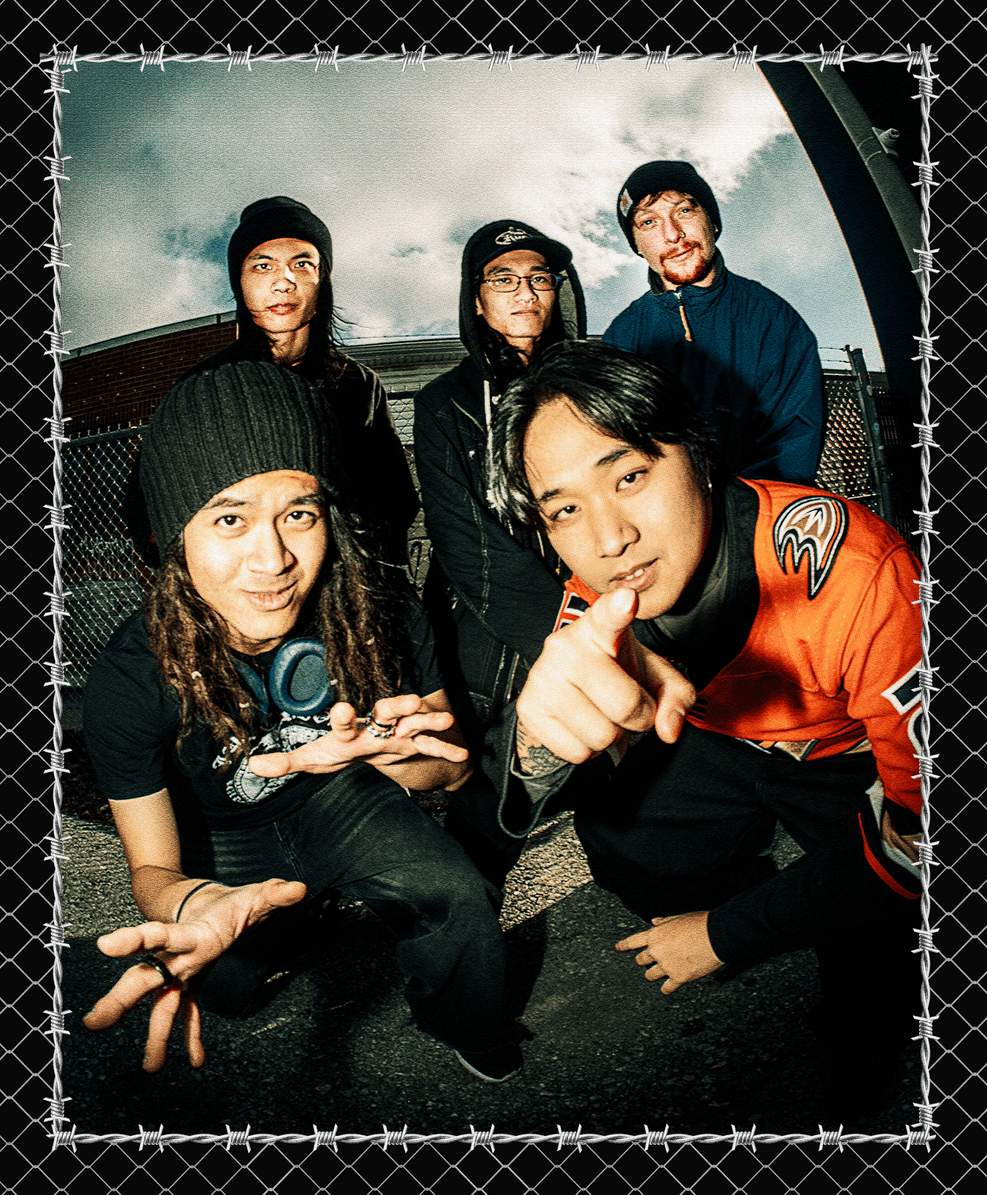
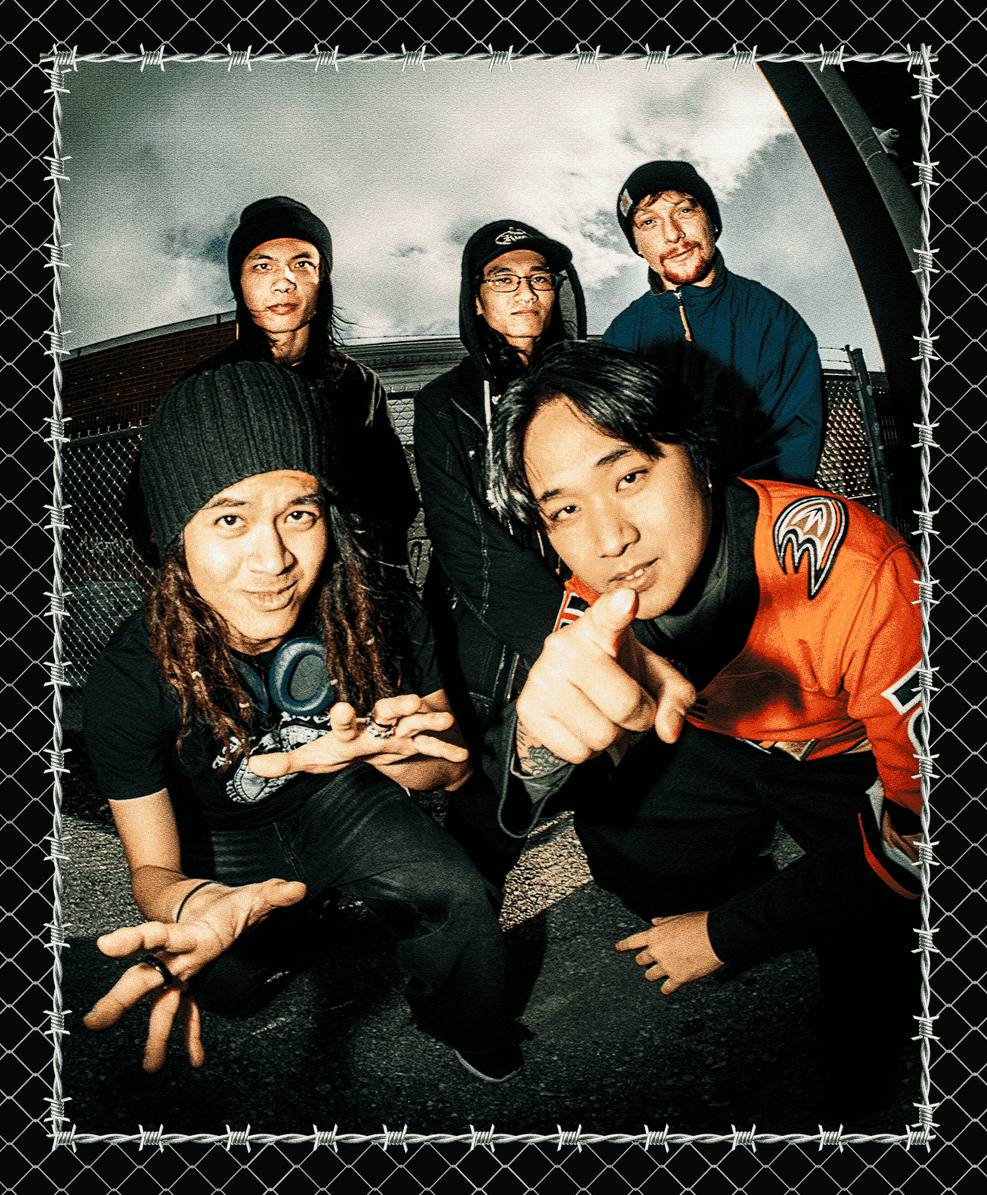
Band assets and seed data updates; fix EXIF orientation in asset optimizer
- Refresh hero/logo images for 1818, 7uppercuts, imnotsure, volcate
- Add logos for 7uppercuts and imnotsure
- Apply JPEG EXIF rotation before resize in optimize-band-assets.mjs
- Update BandSeedData.cs for band URLs/metadata as needed

Made-with: Cursor

diff --git a/backend/FestivalApi/Data/BandSeedData.cs b/backend/FestivalApi/Data/BandSeedData.cs
@@ -638,8 +638,11 @@ BioEn = @"18.18 is a pop-punk/indie rock band from Saigon, formed in 2023. Emerg
 
 The lineup features Billy Bitexco, Cuongnhoc, Ian, and Hac Kim - each member brings a distinct color, blending into 18.18's signature sound: fast-paced melodies, concise hooks, bright guitars, punchy drums, and emotionally charged vocals.
 
-The band has made its mark with tracks such as Khung, Mai Mai In My Mind, Hey Girl, and Ao Anh Anime, and is now recognized as one of the most notable young acts in today's indie/punk scene.",            HeroUrl = "/assets/bands/1818/hero.JPG",
+The band has made its mark with tracks such as Khung, Mai Mai In My Mind, Hey Girl, and Ao Anh Anime, and is now recognized as one of the most notable young acts in today's indie/punk scene.",            
+            HeroUrl = "/assets/bands/1818/hero.JPG",
             LogoUrl = "/assets/bands/1818/logo.png",
+            IsSecret = false,
+            IsFeaturedOnHome = true,
             LineupDay = LineupDay.LongTranh,
             LineupPosition = 16
         },
@@ -651,8 +654,8 @@ The band has made its mark with tracks such as Khung, Mai Mai In My Mind, Hey Gi
             Name = "7 Uppercuts",
             Bio = "",
             HeroUrl = "/assets/bands/7uppercuts/hero.png",
-            LogoUrl = null,
-            IsSecret = true,
+            LogoUrl = "/assets/bands/7uppercuts/logo.png",
+            IsSecret = false,
             IsFeaturedOnHome = true,
             LineupDay = LineupDay.LongTranh,
             LineupPosition = 17
@@ -737,8 +740,8 @@ RELEASED WORKS:
             Name = "I'm Not Sure",
             Bio = "",
             HeroUrl = "/assets/bands/imnotsure/hero.JPG",
-            LogoUrl = null,
-            IsSecret = true,
+            LogoUrl = "/assets/bands/imnotsure/logo.png",
+            IsSecret = false,
             IsFeaturedOnHome = true,
             LineupDay = LineupDay.LongTranh,
             LineupPosition = 20
